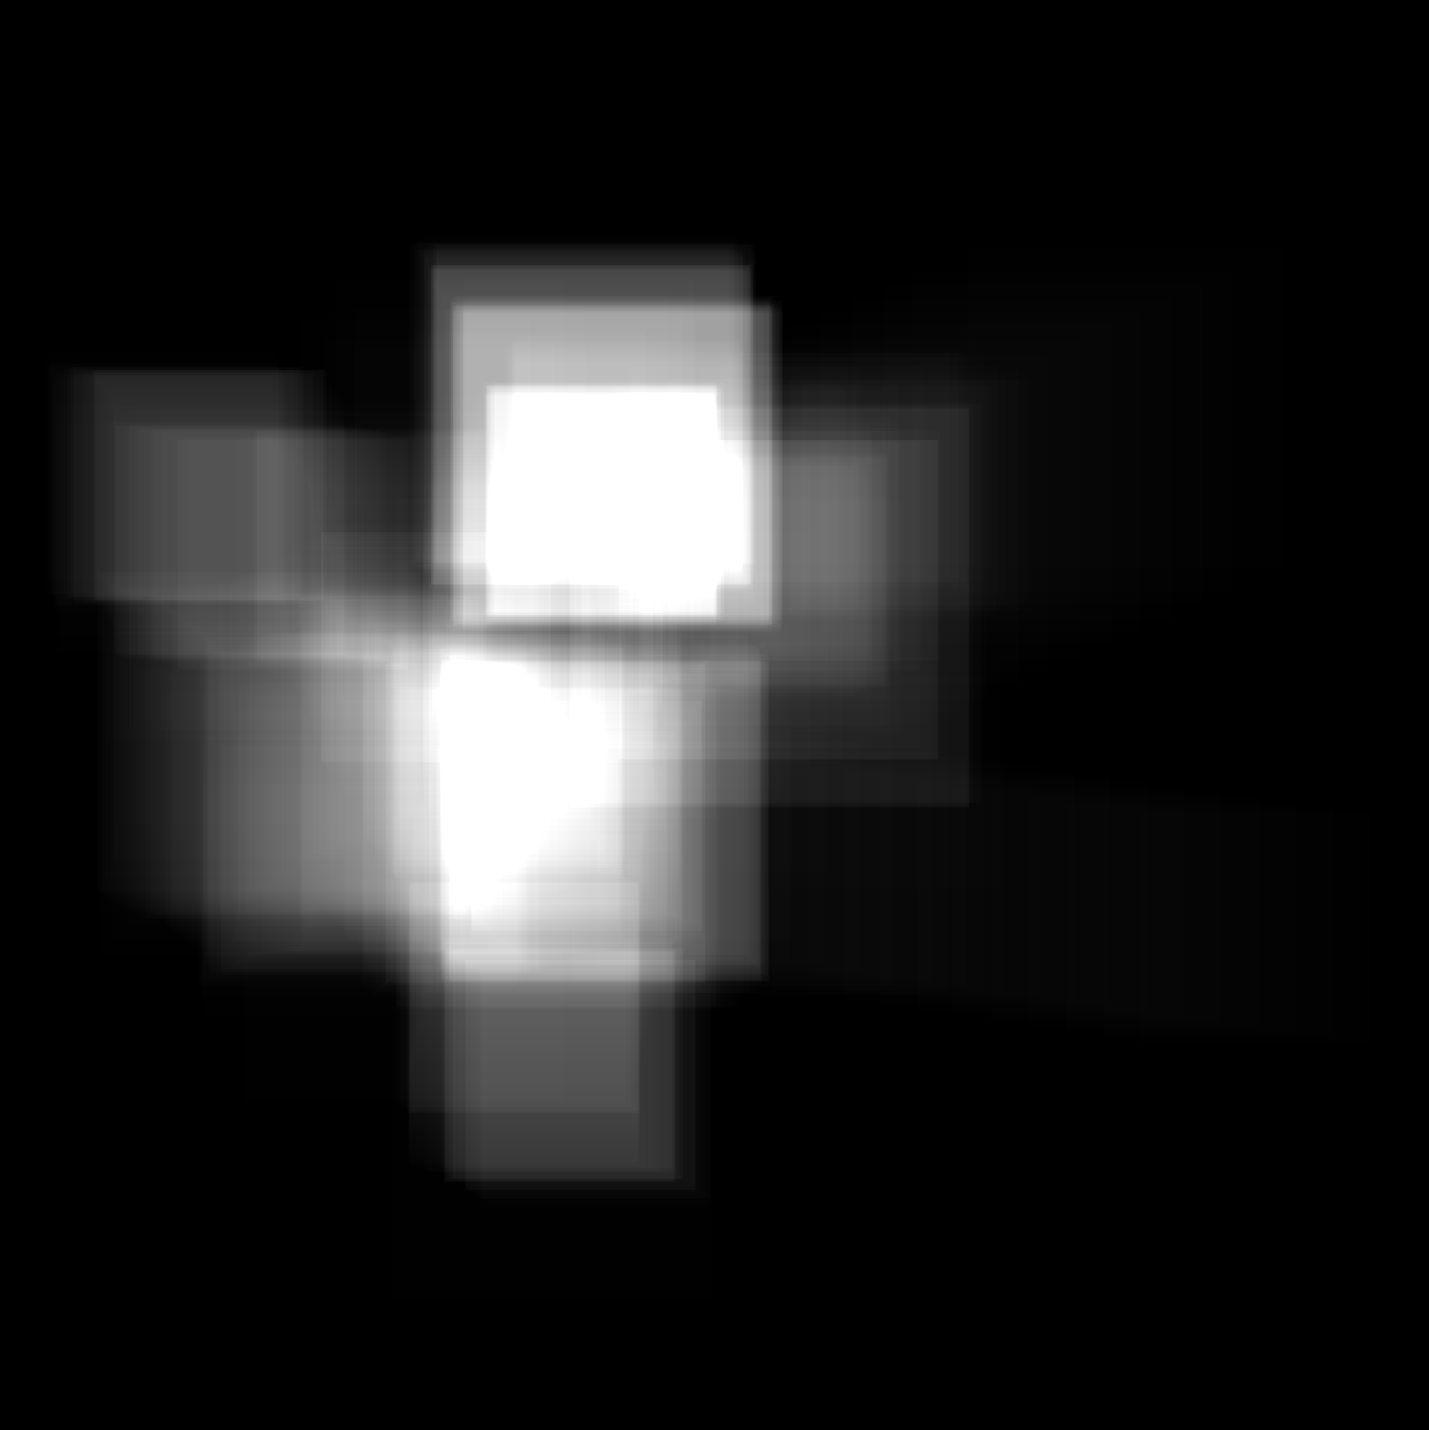
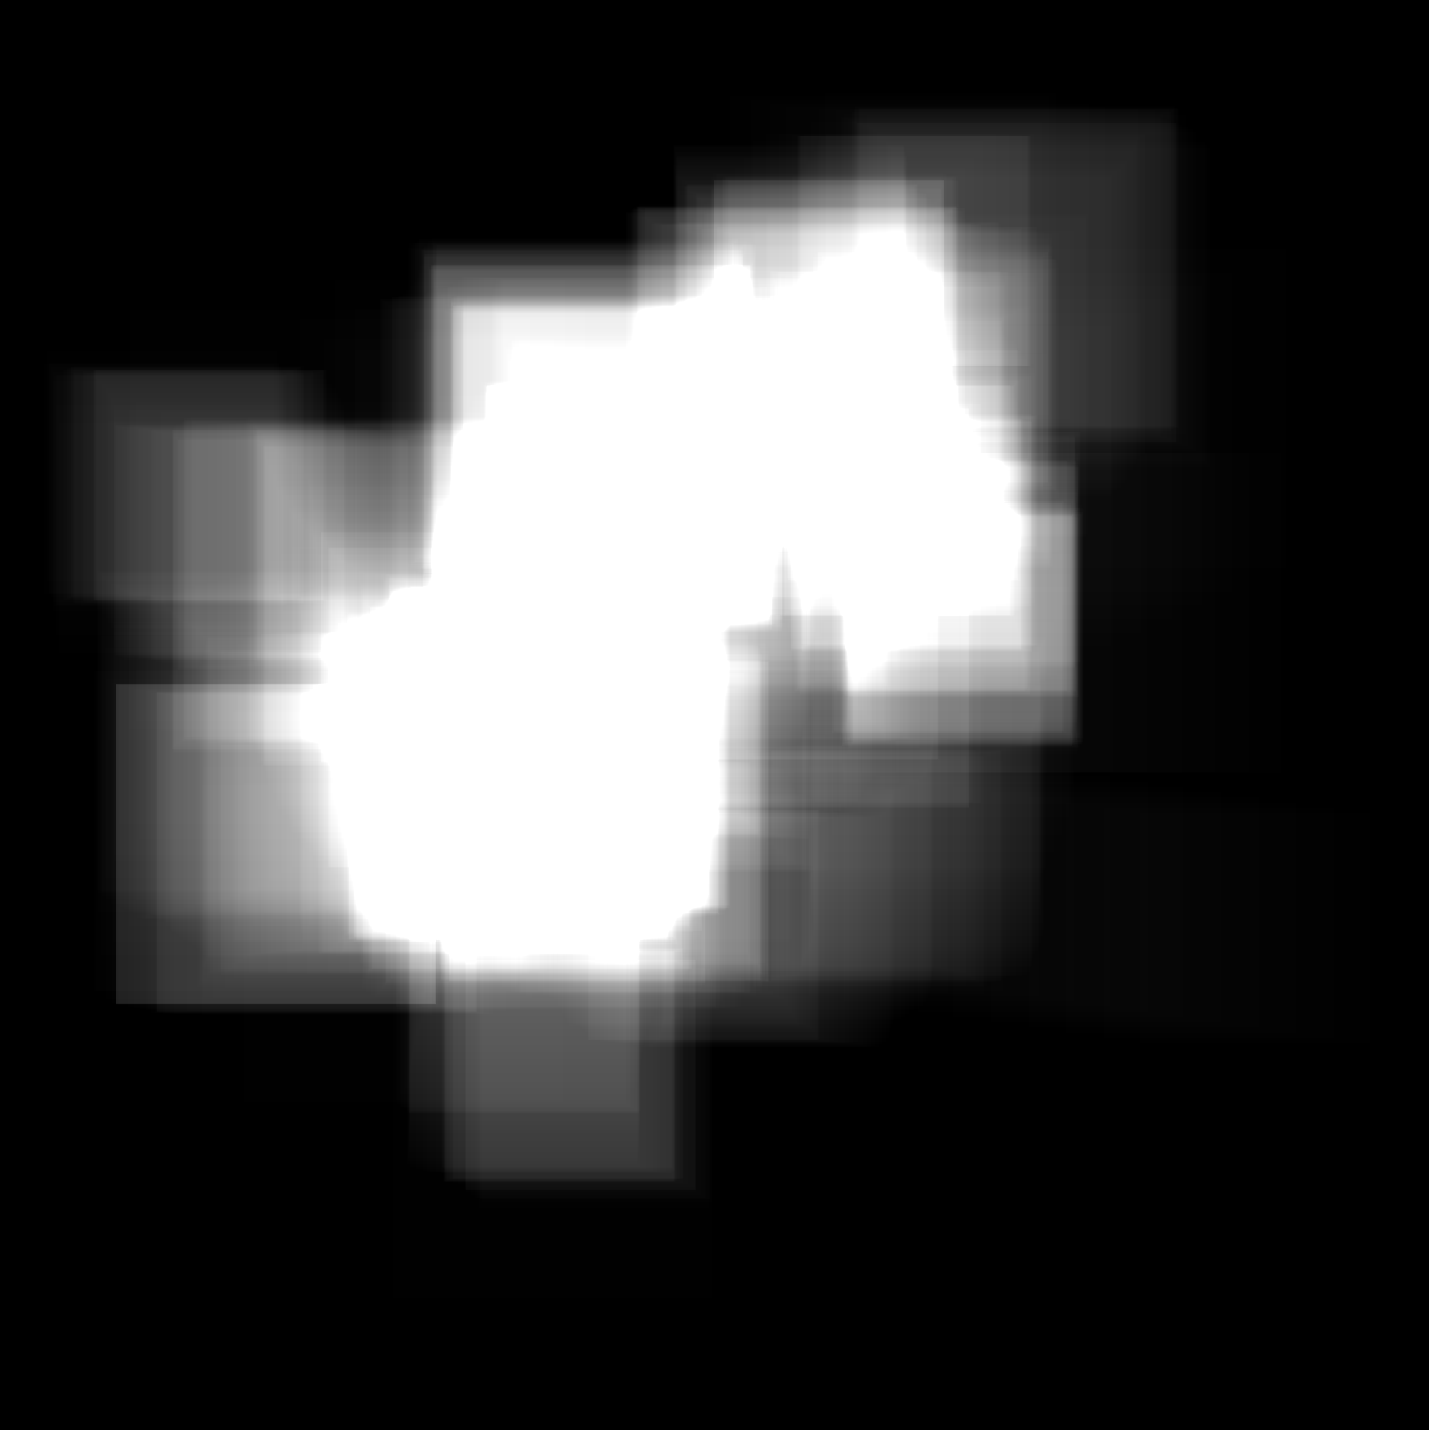
Heatmaps and ring history across all games; death / landing markers under the paths
- Heatmap.py: per map, how many player-trips passed each spot (squad and your own), landings,
  every ring seen and the smallest ring each game; refreshed after every match
- SVG + picture: the death X and other events drawn under the trails
- redraw_from_trails() rewrites the SVG too

Changed region(s): [[0.0616, 0.0615, 0.8314, 0.7385]]

diff --git a/Heatmap.py b/Heatmap.py
@@ -1,0 +1,148 @@
+"""
+All your games on one map: where players go, and where the rings went.
+
+For every map, from the trails.json of every match played on it:
+    Maps/<Map>/heatmap.png   how many player-trips passed through each spot (you and teammates, after
+                             landing). A player standing still counts once, so busy routes, rotations and
+                             choke points light up, not just camping spots. Landings are green dots.
+    Maps/<Map>/rings.png     every ring recorded (faint), the last ring seen each game (bold) and its
+                             centre, so you can see where endgames tend to end up.
+
+Usage:
+    python Heatmap.py               # every map
+    python Heatmap.py "Broken Moon"  # one map
+    python Heatmap.py --me          # only your own trails
+"""
+import argparse
+import json
+from datetime import datetime
+from pathlib import Path
+
+import cv2
+import numpy as np
+
+import Map_Locate
+import Match_Map
+
+HERE = Path(__file__).parent
+CAPTURES = HERE / "Captures"
+TRAIL_WIDTH = 0.004            # share of the map width a trail covers
+BLUR = 0.004                   # share of the map width the heat is smoothed over
+TRAIL_GAP = Match_Map.TRAIL_GAP
+
+def load_matches(map_name):
+    out = []
+    for path in sorted(CAPTURES.glob("*/trails.json")):
+        data = json.loads(path.read_text())
+        if data.get("map") == map_name:
+            out.append(data)
+    return out
+
+def trail_mask(points, landed_at, shape, width):
+    """Where one player walked in one match (after landing; no lines across gaps), as a 0/1 mask."""
+    mask = np.zeros(shape, np.uint8)
+    times = [datetime.fromisoformat(p["time"]) for p in points]
+    for (a, ta), (b, tb) in zip(zip(points, times), zip(points[1:], times[1:])):
+        if b.get("gap") or (tb - ta).total_seconds() > TRAIL_GAP or (landed_at and tb <= landed_at):
+            continue
+        cv2.line(mask, (int(a["x"]), int(a["y"])), (int(b["x"]), int(b["y"])), 1, width, cv2.LINE_AA)
+    return mask
+
+def colour_heat(heat):
+    """Heat (0-1) -> BGR colour and alpha: blue (rare) through yellow to red (busiest)."""
+    lut = cv2.applyColorMap(np.uint8(np.clip(heat, 0, 1) * 255), cv2.COLORMAP_TURBO)
+    alpha = np.clip(heat * 3, 0, 0.85)[..., None]
+    return lut, alpha
+
+def labels(image, locator, scale, title, lines=()):
+    from PIL import Image, ImageDraw
+    pil = Image.fromarray(cv2.cvtColor(image, cv2.COLOR_BGR2RGB))
+    draw = ImageDraw.Draw(pil)
+    small, big = Match_Map.font(18), Match_Map.font(26)
+    for poi in locator.pois:
+        draw.text((poi["x"] * scale, poi["y"] * scale), poi["name"].upper(), font=small, fill=(235, 235, 235),
+                  anchor="mm", stroke_width=3, stroke_fill=(0, 0, 0))
+    draw.text((16, 14), title, font=big, fill=(255, 255, 255), stroke_width=3, stroke_fill=(0, 0, 0))
+    for i, line in enumerate(lines):
+        draw.text((16, 50 + 24 * i), line, font=small, fill=(220, 220, 220), stroke_width=3, stroke_fill=(0, 0, 0))
+    return cv2.cvtColor(np.array(pil), cv2.COLOR_RGB2BGR)
+
+def heatmap(map_name, only_me=False):
+    locator = Map_Locate.MapLocator(map_name)
+    matches = load_matches(map_name)
+    if not matches:
+        return None
+    h, w = locator.reference.shape[:2]
+    width = max(2, int(TRAIL_WIDTH * w))
+    heat = np.zeros((h, w), np.float32)
+    landings, trips = [], 0
+    for data in matches:
+        landed_at = datetime.fromisoformat(data["landing"]["time"]) if data.get("landing") else None
+        if data.get("landing"):
+            landings.append(data["landing"])
+        for player in data["players"]:
+            if only_me and not player.get("is_me"):
+                continue
+            mask = trail_mask(player["points"], landed_at, (h, w), width)
+            if mask.any():
+                heat += mask
+                trips += 1
+    if trips == 0:
+        return None
+    heat = cv2.GaussianBlur(heat, (0, 0), max(1.0, BLUR * w))
+    top = np.percentile(heat[heat > 0], 99) if (heat > 0).any() else 1
+    norm = heat / max(top, 1e-6)
+
+    scale = Match_Map.OUTPUT_SIZE / max(h, w)
+    size = (int(w * scale), int(h * scale))
+    base = cv2.resize(locator.reference, size, interpolation=cv2.INTER_AREA).astype(np.float32) * 0.45
+    colour, alpha = colour_heat(cv2.resize(norm, size, interpolation=cv2.INTER_LINEAR))
+    image = (base * (1 - alpha) + colour.astype(np.float32) * alpha).astype(np.uint8)
+    for land in landings:
+        cv2.circle(image, (int(land["x"] * scale), int(land["y"] * scale)), 6, (80, 255, 80), -1, cv2.LINE_AA)
+        cv2.circle(image, (int(land["x"] * scale), int(land["y"] * scale)), 6, (0, 0, 0), 1, cv2.LINE_AA)
+    who = "your trails" if only_me else "squad trails"
+    image = labels(image, locator, scale, f"{map_name} - where players go",
+                   [f"{len(matches)} games, {trips} {who}", "blue = sometimes, red = most often", "green dots = landings"])
+    out = locator.folder / ("heatmap_me.png" if only_me else "heatmap.png")
+    cv2.imwrite(str(out), image)
+    return out
+
+def ring_history(map_name):
+    locator = Map_Locate.MapLocator(map_name)
+    matches = load_matches(map_name)
+    rings = [(data, [r for r in data.get("rings", []) if r["kind"] == "ring"]) for data in matches]
+    rings = [(d, rs) for d, rs in rings if rs]
+    if not rings:
+        return None
+    h, w = locator.reference.shape[:2]
+    scale = Match_Map.OUTPUT_SIZE / max(h, w)
+    size = (int(w * scale), int(h * scale))
+    image = (cv2.resize(locator.reference, size, interpolation=cv2.INTER_AREA).astype(np.float32) * 0.55).astype(np.uint8)
+    for _, rs in rings:
+        for r in rs:
+            cv2.circle(image, (int(r["x"] * scale), int(r["y"] * scale)), int(r["r"] * scale), (200, 200, 200), 1, cv2.LINE_AA)
+    for _, rs in rings:
+        last = min(rs, key=lambda r: r["r"])
+        c = (int(last["x"] * scale), int(last["y"] * scale))
+        cv2.circle(image, c, int(last["r"] * scale), (60, 200, 255), 2, cv2.LINE_AA)
+        cv2.circle(image, c, 5, (60, 200, 255), -1, cv2.LINE_AA)
+    image = labels(image, locator, scale, f"{map_name} - where the rings went",
+                   [f"{len(rings)} games with rings", "grey = every ring seen", "orange = smallest ring seen each game"])
+    out = locator.folder / "rings.png"
+    cv2.imwrite(str(out), image)
+    return out
+
+def main():
+    parser = argparse.ArgumentParser(description=__doc__, formatter_class=argparse.RawDescriptionHelpFormatter)
+    parser.add_argument("map", nargs="?", choices=Map_Locate.MAP_NAMES)
+    parser.add_argument("--me", action="store_true", help="only your own trails")
+    args = parser.parse_args()
+    for name in [args.map] if args.map else Map_Locate.MAP_NAMES:
+        made = [heatmap(name, args.me), ring_history(name)]
+        made = [str(m) for m in made if m]
+        if made:
+            print(f"{name}: " + ", ".join(made))
+
+if __name__ == "__main__":
+    main()

diff --git a/Match_Map.py b/Match_Map.py
@@ -731,6 +731,9 @@ def render(locator, out_file, me_trail, mates=None, ship=None, rings=(), landing
             cv2.ellipse(image, P(scan), (r, r), 0, start, start + 2, (230, 120, 170), 1, cv2.LINE_AA)
     if ship:
         draw_flight(image, ship, P, zoomed)
+    if death:
+        # Under the trails, so the squad's last moves stay visible on top of it
+        cv2.drawMarker(image, P(death), (60, 60, 255), cv2.MARKER_TILTED_CROSS, 26, 3)
     # You first, teammates on top: squads move together, and a teammate drawn under your thicker line
     # disappears. Each teammate is also nudged a few px sideways so shared paths show side by side.
     trails = [(my_colour_name or "me", me_trail, 6 if zoomed else 5, (0, 0))]
@@ -786,8 +789,6 @@ def render(locator, out_file, me_trail, mates=None, ship=None, rings=(), landing
         cv2.drawMarker(image, P(d["down"]), (60, 60, 255), cv2.MARKER_TILTED_CROSS, 22, 4)
         cv2.circle(image, P(d["back"]), 11, (80, 255, 80), 3, cv2.LINE_AA)
         labels += [(P(d["down"]), f"down {d['down']['time'][11:16]}"), (P(d["back"]), f"back {d['back']['time'][11:16]}")]
-    if death:
-        cv2.drawMarker(image, P(death), (60, 60, 255), cv2.MARKER_TILTED_CROSS, 30, 5)
 
     pil = Image.fromarray(cv2.cvtColor(image, cv2.COLOR_BGR2RGB))
     draw = ImageDraw.Draw(pil)
@@ -905,6 +906,22 @@ def write_svg(locator, out_file, players, rings=(), ship=None, landing=None, dea
             out.append(f'<circle class="line" cx="{j["x"]:.1f}" cy="{j["y"]:.1f}" r="4" stroke="#ffffff" '
                        f'stroke-width="2"><title>Jumped {j.get("time", "")[11:]}</title></circle>')
         out.append("</g>")
+    # Landing / downs / death sit under the paths, so the last moments of the squad stay visible
+    out.append('<g id="events">')
+    if landing:
+        out.append(f'<circle class="line" cx="{landing["x"]:.1f}" cy="{landing["y"]:.1f}" r="5" stroke="#50ff50" '
+                   f'stroke-width="2"><title>Landed {landing.get("poi", "")} {landing.get("time", "")[11:]}</title></circle>')
+    for d in downs:
+        out.append(f'<circle class="line" cx="{d["down"]["x"]:.1f}" cy="{d["down"]["y"]:.1f}" r="3" stroke="#ff3c3c" '
+                   f'stroke-width="2"><title>Down {d["down"]["time"][11:]}</title></circle>')
+        out.append(f'<circle class="line" cx="{d["back"]["x"]:.1f}" cy="{d["back"]["y"]:.1f}" r="3" stroke="#50ff50" '
+                   f'stroke-width="2"><title>Back {d["back"]["time"][11:]}</title></circle>')
+    if death:
+        x, y = death["x"], death["y"]
+        out.append(f'<g stroke="#ff3c3c" stroke-width="2" opacity="0.8" class="line"><title>Died {death.get("zone", "")} '
+                   f'{death.get("time", "")[11:]}</title><line x1="{x-5:.1f}" y1="{y-5:.1f}" x2="{x+5:.1f}" y2="{y+5:.1f}"/>'
+                   f'<line x1="{x-5:.1f}" y1="{y+5:.1f}" x2="{x+5:.1f}" y2="{y-5:.1f}"/></g>')
+    out.append("</g>")
     out.append('<g id="players">')
     for player in players:
         colour, pts = svg_colour(player["colour"]), player["points"]
@@ -938,21 +955,6 @@ def write_svg(locator, out_file, players, rings=(), ship=None, landing=None, dea
                                f'<title>{escape(player["name"])} {minute}m ({q["time"][11:19]})</title></circle>')
                     minute += 1
         out.append("</g>")
-    out.append("</g>")
-    out.append('<g id="events">')
-    if landing:
-        out.append(f'<circle class="line" cx="{landing["x"]:.1f}" cy="{landing["y"]:.1f}" r="5" stroke="#50ff50" '
-                   f'stroke-width="2"><title>Landed {landing.get("poi", "")} {landing.get("time", "")[11:]}</title></circle>')
-    for d in downs:
-        out.append(f'<circle class="line" cx="{d["down"]["x"]:.1f}" cy="{d["down"]["y"]:.1f}" r="3" stroke="#ff3c3c" '
-                   f'stroke-width="2"><title>Down {d["down"]["time"][11:]}</title></circle>')
-        out.append(f'<circle class="line" cx="{d["back"]["x"]:.1f}" cy="{d["back"]["y"]:.1f}" r="3" stroke="#50ff50" '
-                   f'stroke-width="2"><title>Back {d["back"]["time"][11:]}</title></circle>')
-    if death:
-        x, y = death["x"], death["y"]
-        out.append(f'<g stroke="#ff3c3c" stroke-width="3" class="line"><title>Died {death.get("zone", "")} '
-                   f'{death.get("time", "")[11:]}</title><line x1="{x-5:.1f}" y1="{y-5:.1f}" x2="{x+5:.1f}" y2="{y+5:.1f}"/>'
-                   f'<line x1="{x-5:.1f}" y1="{y+5:.1f}" x2="{x+5:.1f}" y2="{y-5:.1f}"/></g>')
     out.append("</g>")
     out.append('<g id="pois">')
     for poi in locator.pois:
@@ -1208,5 +1210,8 @@ def redraw_from_trails(folder):
                 header=data.get("title", "").replace(" \u00b7 ", "  \u00b7  "), my_colour_name=me["colour"] if me else None,
                 names=names)
     cv2.imwrite(str(folder / "match_map.jpg"), cv2.imread(str(tmp)), [cv2.IMWRITE_JPEG_QUALITY, 88])
+    write_svg(locator, folder / "match_paths.svg", data["players"], rings=data.get("rings", []), ship=ship,
+              landing=data.get("landing"), death=data.get("death"), downs=data.get("downs", []),
+              scans=data.get("scans", []), title=data.get("title", ""), map_href=data.get("reference"))
     tmp.unlink()
     (folder / ".redraw_zoom.png").unlink(missing_ok=True)

diff --git a/Extract_Stats.py b/Extract_Stats.py
@@ -766,5 +766,14 @@ def main():
             if (folder / "stats.json").exists():
                 clean_up(folder, json.loads((folder / "stats.json").read_text()))
 
+    # Refresh the all-games heatmap / ring history of the maps just played
+    if not args.no_sheet:
+        import Heatmap
+        for name in sorted({json.loads((f / "stats.json").read_text()).get("map") for f in todo if (f / "stats.json").exists()} - {None}):
+            try:
+                Heatmap.heatmap(name), Heatmap.heatmap(name, only_me=True), Heatmap.ring_history(name)
+            except Exception as e:
+                print(f"Heatmap for {name} failed: {e.__class__.__name__}: {e}")
+
 if __name__ == "__main__":
     sys.exit(main())

diff --git a/Readme.md b/Readme.md
@@ -138,6 +138,11 @@ picture is worked out again from everything (1-3 min after the stats screen) and
 On your trail, the white dots (1m, 2m, ...) mark each minute since the jump; an X marks where a teammate was
 last seen.
 
+All games together (Heatmap.py, refreshed after every match; run .venv/bin/python Heatmap.py by hand anytime):
+Maps/<Map>/heatmap.png     where players go - how many trips passed each spot (squad), landings as green dots
+Maps/<Map>/heatmap_me.png  the same for your own trails only
+Maps/<Map>/rings.png       every ring recorded, and the smallest ring seen each game (where endgames end up)
+
 Contested (another squad landed at your POI) can't be seen directly, so it's a best guess: Yes when, from
 15 s before to 2 min after landing, the kill feed shows "Squad landed nearby!" (the game's own call-out),
 someone in your squad spotted an enemy, broke an enemy's shield, or fought someone. Checked against 26 games
